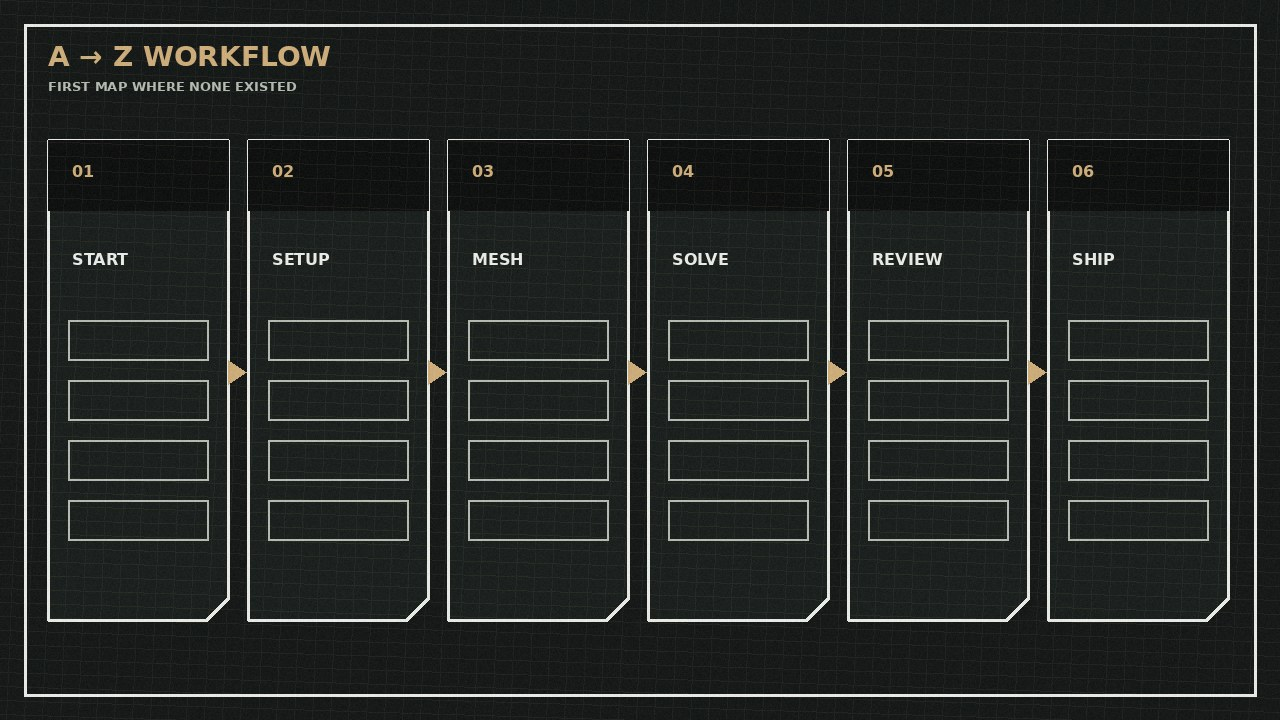
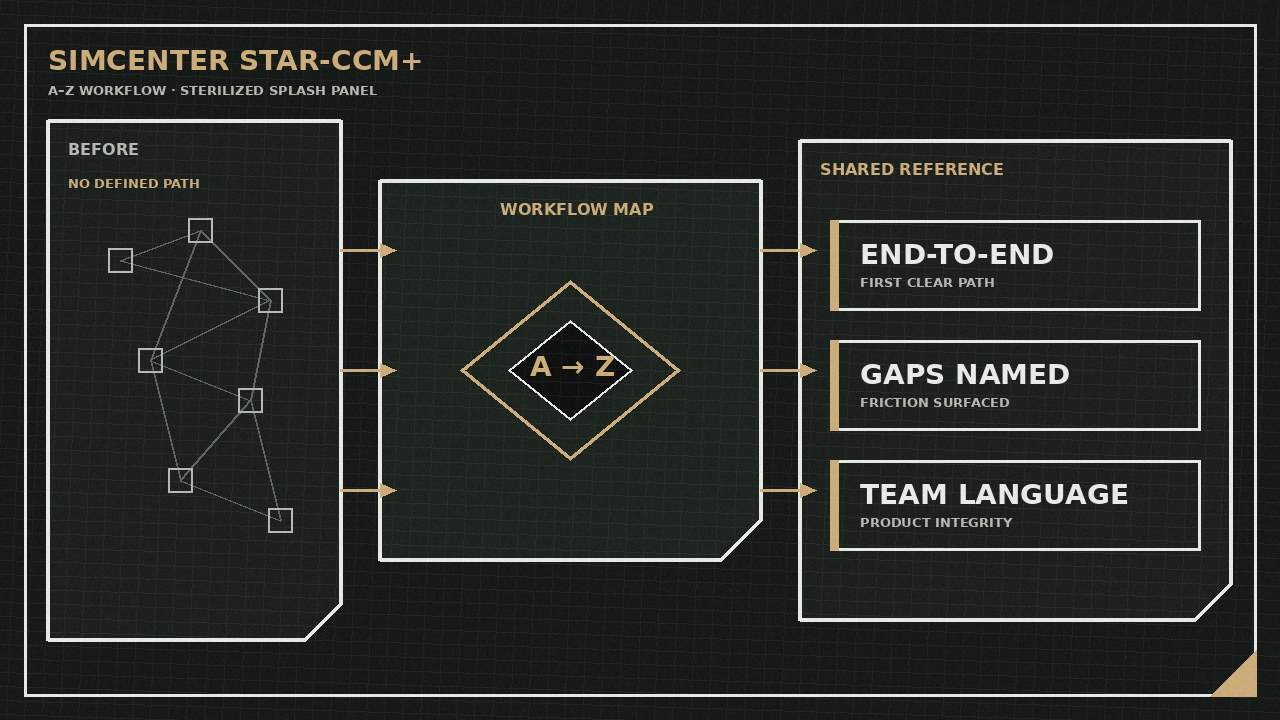
Align Simcenter thumbs with sterilized panel system
Remake STAR-CCM+ thumbnails in the same cut-corner splash language
as the other cases and drop the stale collage PNG.

diff --git a/src/content/cases.ts b/src/content/cases.ts
@@ -328,7 +328,7 @@ export const cases: CaseStudy[] = [
     platforms: ["Simcenter STAR-CCM+"],
     tags: ["workflow", "research", "enterprise"],
     thumb: "/images/cases/star-ccm-az-workflow.jpg",
-    thumbAlt: "Siemens STAR-CCM+ portfolio collage — labeled product UI examples",
+    thumbAlt: "Sterilized Simcenter STAR-CCM+ A–Z workflow splash panel",
     teaser:
       "Mapped the first clear A–Z workflow in STAR-CCM+—where none had ever been defined.",
     summary:
